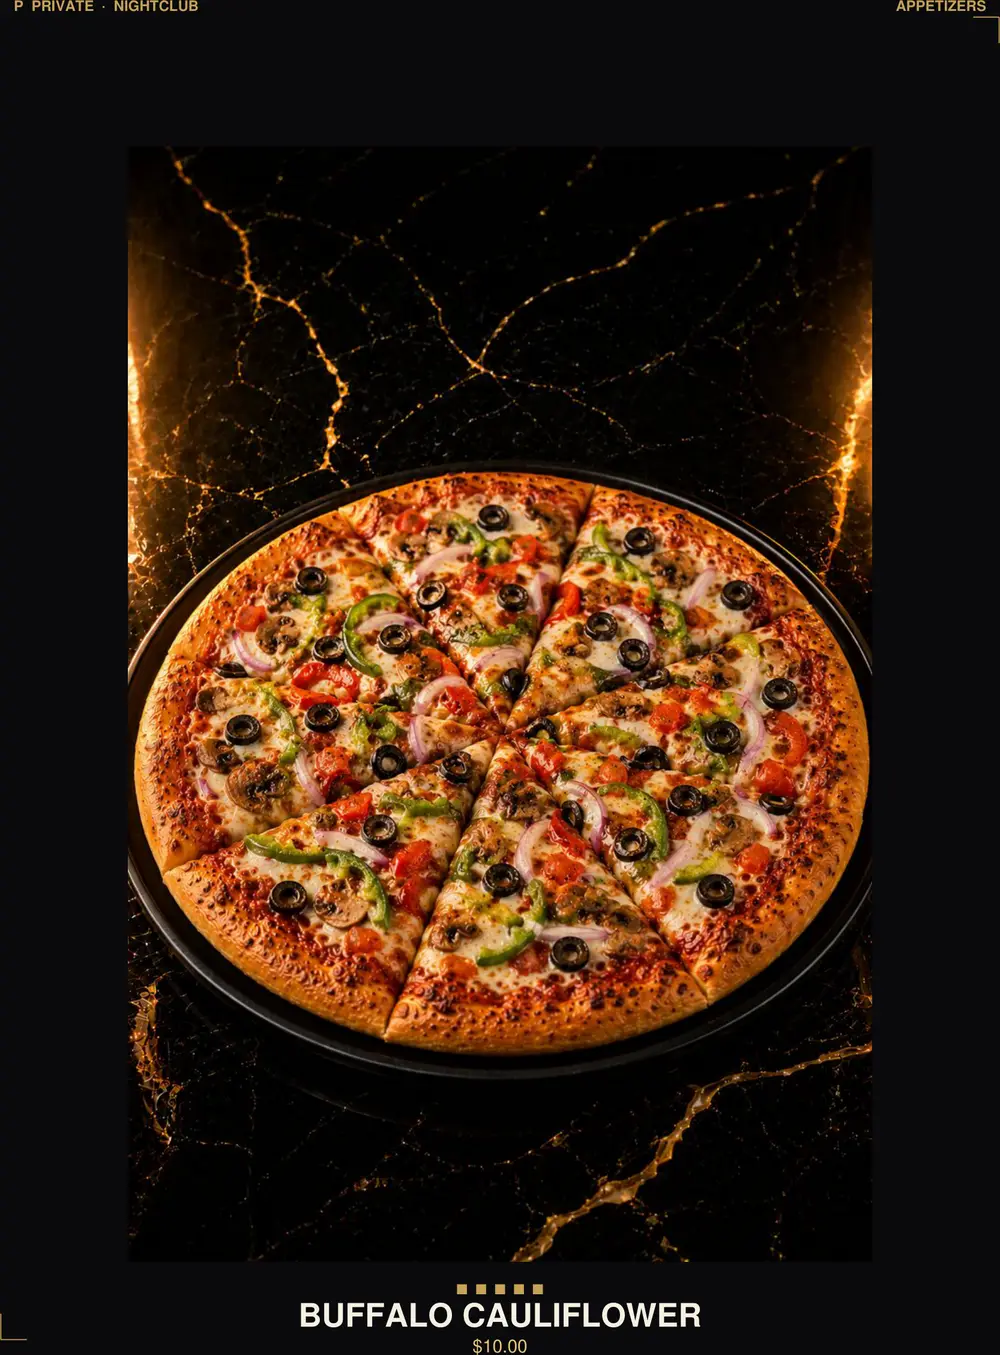
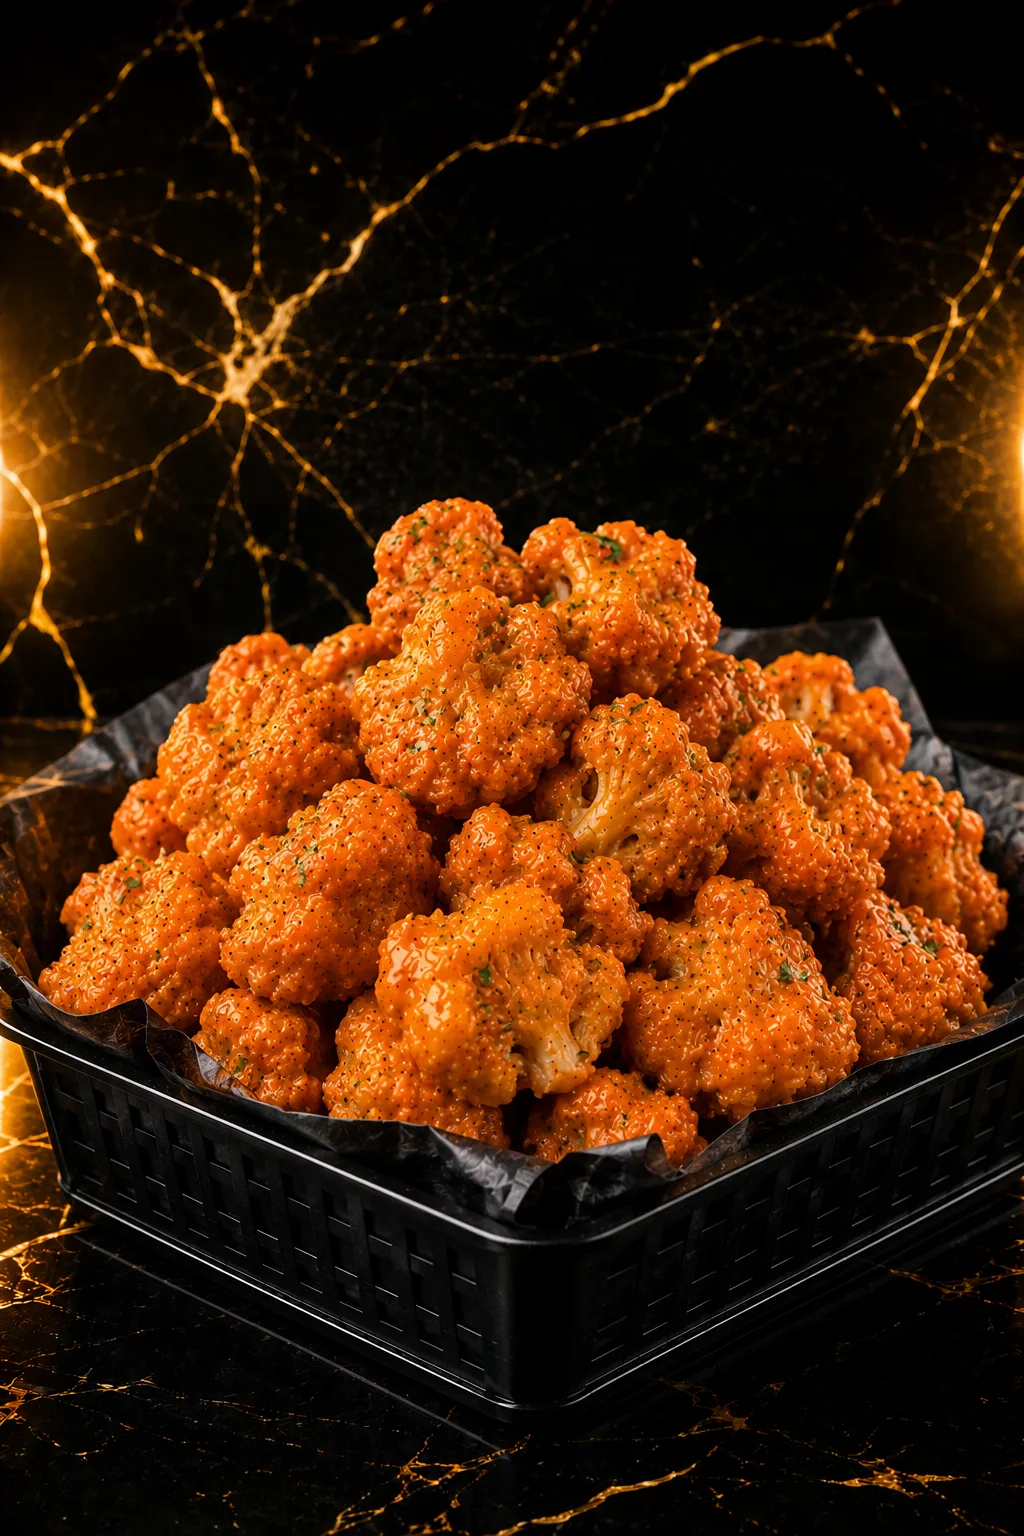
Menu: replace remaining wrong food photos (cauliflower, hot dog, hamburger)
Swap in owner-supplied regenerated images for the three menu cards that
still showed wrong food: Buffalo Cauliflower (was a pizza), All Beef Hot
Dog (was bites), and Hamburger (had a baked-in label). Clears the stale
"regenerate" notes in site.ts.

Claude-Session: https://claude.ai/code/session_01LArLZQWeNJkpCk8BASdQG5

diff --git a/private-nightclub/src/lib/site.ts b/private-nightclub/src/lib/site.ts
@@ -263,11 +263,11 @@ export const foodSelectItems: MenuSelectItem[] = [
   { name: "Mac & Cheese Bites", category: "Appetizers", price: "10", note: "Crispy fried mac and cheese.", img: "/menu/food/food-11.webp" },
   { name: "Beef Toasted Ravioli", category: "Appetizers", price: "10", note: "St. Louis style, marinara.", img: "/menu/food/food-12.webp" },
   { name: "Buffalo Shrimp", category: "Appetizers", price: "12", note: "Crispy shrimp tossed in buffalo.", img: "/menu/food/food-15.webp" },
-  { name: "Buffalo Cauliflower", category: "Appetizers", price: "10", note: "Crispy cauliflower, buffalo sauce.", img: "/menu/food/food-14.webp" }, // PHOTO shows pizza — regenerate
+  { name: "Buffalo Cauliflower", category: "Appetizers", price: "10", note: "Crispy cauliflower, buffalo sauce.", img: "/menu/food/food-14.webp" }, // owner-supplied photo
   { name: "Fried Pickles", category: "Appetizers", price: "10", note: "Hand-battered dill pickles.", img: "/menu/food/food-13.webp" }, // real photo (owner-supplied)
   // FROM THE GRILL
-  { name: "All Beef Hot Dog", category: "From the Grill", price: "7", note: "Quarter-pound all-beef dog.", img: "/menu/food/food-17.webp" }, // PHOTO shows bites — regenerate
-  { name: "Hamburger", category: "From the Grill", price: "10", note: "Char-grilled all-beef patty, brioche bun.", img: "/menu/food/food-20.webp" }, // real burger photo (baked-in label crops out)
+  { name: "All Beef Hot Dog", category: "From the Grill", price: "7", note: "Quarter-pound all-beef dog.", img: "/menu/food/food-17.webp" }, // owner-supplied photo
+  { name: "Hamburger", category: "From the Grill", price: "10", note: "Char-grilled all-beef patty, brioche bun.", img: "/menu/food/food-20.webp" }, // owner-supplied photo
   { name: "Cheeseburger", category: "From the Grill", price: "12", note: "Char-grilled, American cheese.", img: "/menu/food/food-16.webp" }, // owner-supplied photo
   // PIZZA — cheese; pepperoni is the popular topping (+$2)
   { name: "Cheese Pizza", category: "Pizza", price: "12 / 14", note: "10-inch $12 · 12-inch $14. Add toppings.", img: "/menu/food/food-19.webp" },